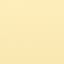
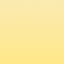
更新

diff --git a/HewProject/HewProject/Fade_TestScene.cpp b/HewProject/HewProject/Fade_TestScene.cpp
@@ -13,20 +13,20 @@ Fade_TestScene::Fade_TestScene()
 
 	floorUI = new FloorUI(1, 3);
 
-	gage->SetScale({0.5f, 0.5f,1.0f});
+	gage->SetScale({ 0.5f, 0.5f,1.0f });
 	gage->SetPosition({ 3.0,3.0f,1.0f });
 
 	D3D_CreateSquare({ 1,2 }, &buffer);
 	D3D_CreateSquare({ 1,1 }, &b);
 	D3DTEXTURE texWork = TextureFactory::GetInstance()->Fetch(L"asset/UI/Button.png");
-	D3DTEXTURE textTex = TextureFactory::GetInstance()->Fetch(L"asset/Text/T_GameStart.png"); 
+	D3DTEXTURE textTex = TextureFactory::GetInstance()->Fetch(L"asset/Text/T_GameStart.png");
 	buttonUI = new ButtonUI(buffer, texWork, b, textTex);
 
 	buttonUI->SetScale({ 8.0f, 8.0f, 1.0f });
-	
+
 
 	proteinUI = new ProteinUI(2);
-	proteinUI->SetPosition({ 2.0f, 2.0f, 0.0f });
+	proteinUI->SetPosition({ 0.0f,0.0f, 0.0f });
 }
 
 Fade_TestScene::~Fade_TestScene()
@@ -70,9 +70,9 @@ void Fade_TestScene::Update()
 
 	else if (gInput->GetKeyTrigger(VK_RIGHT))
 	{
-		gage->SetCalorie(5,false);
+		gage->SetCalorie(5, false);
 	}
-	
+
 	else if (gInput->GetKeyTrigger(VK_F1))
 	{
 		a++;

diff --git a/HewProject/HewProject/CalorieGage_hori.cpp b/HewProject/HewProject/CalorieGage_hori.cpp
@@ -323,7 +323,7 @@ void CalorieGage_hori::NumUISetting()
 	}
 	else if (calorieNum > MARKNUM_MAX * YELLOW_RATIO)
 	{
-		rgb = { 244, 229, 17 };
+		rgb = { 255, 215, 0 };
 	}
 	else
 	{
